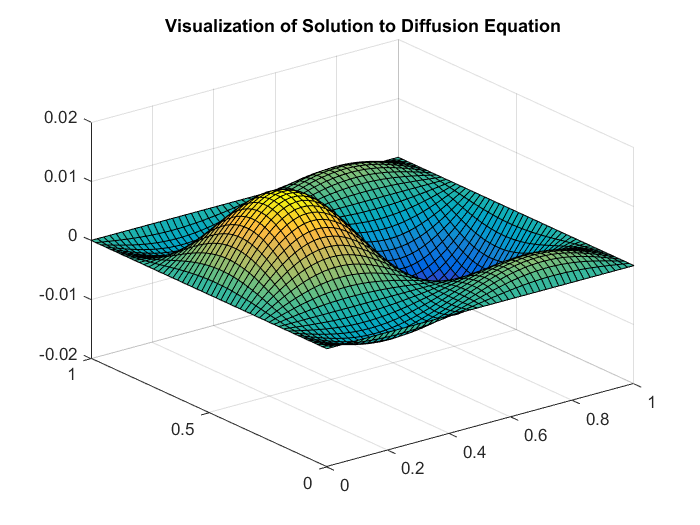
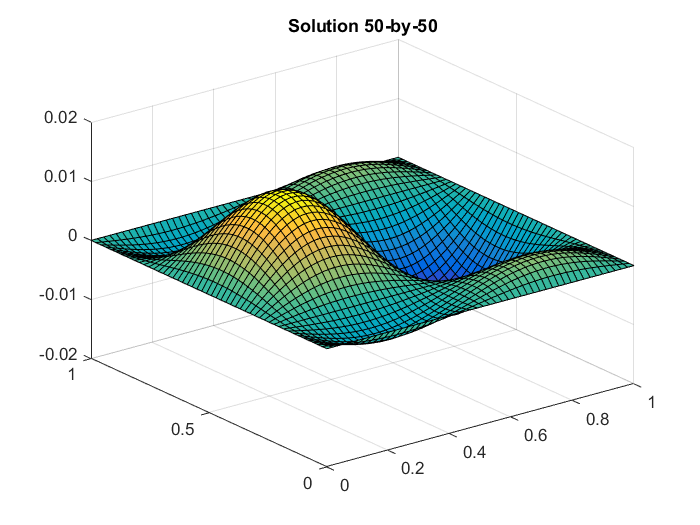
502 imgs

Changed region(s): [[0.24, 0.0305, 0.81, 0.061]]

diff --git a/ENM_hw3/grid10.m b/ENM_hw3/grid10.m
@@ -1,5 +1,5 @@
 % generate grid points
-M = 10;
+M = 50;
 x = 0 : 1 : M - 1;
 x = x ./ (M - 1);
 x = repmat(x, M, 1);
@@ -63,3 +63,11 @@ u = direct_solve(A, b);
 u = reshape(u, M - 2, M - 2)';
 U = zeros(M);
 U(2:M - 1, 2:M - 1) = u;
+
+figure(1);
+contour(x, y, U);
+title(['Contour ', num2str(M), '-by-', num2str(M)]);
+
+figure(2);
+surf(x, y, U);
+title(['Solution ', num2str(M), '-by-', num2str(M)]);
